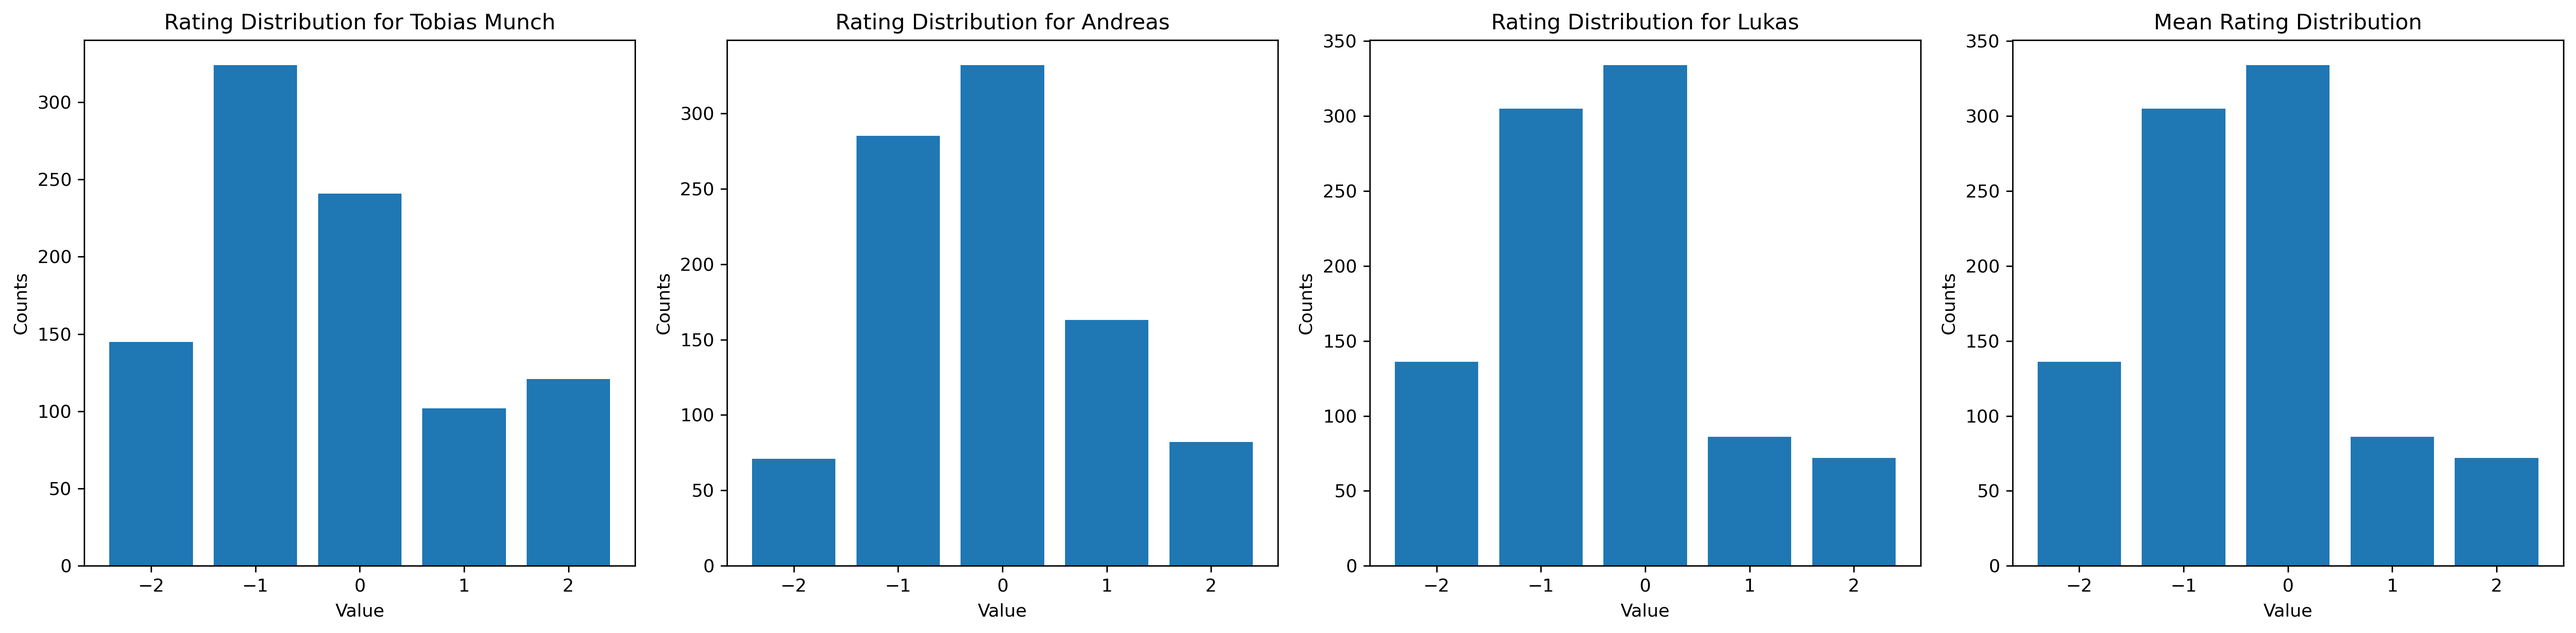
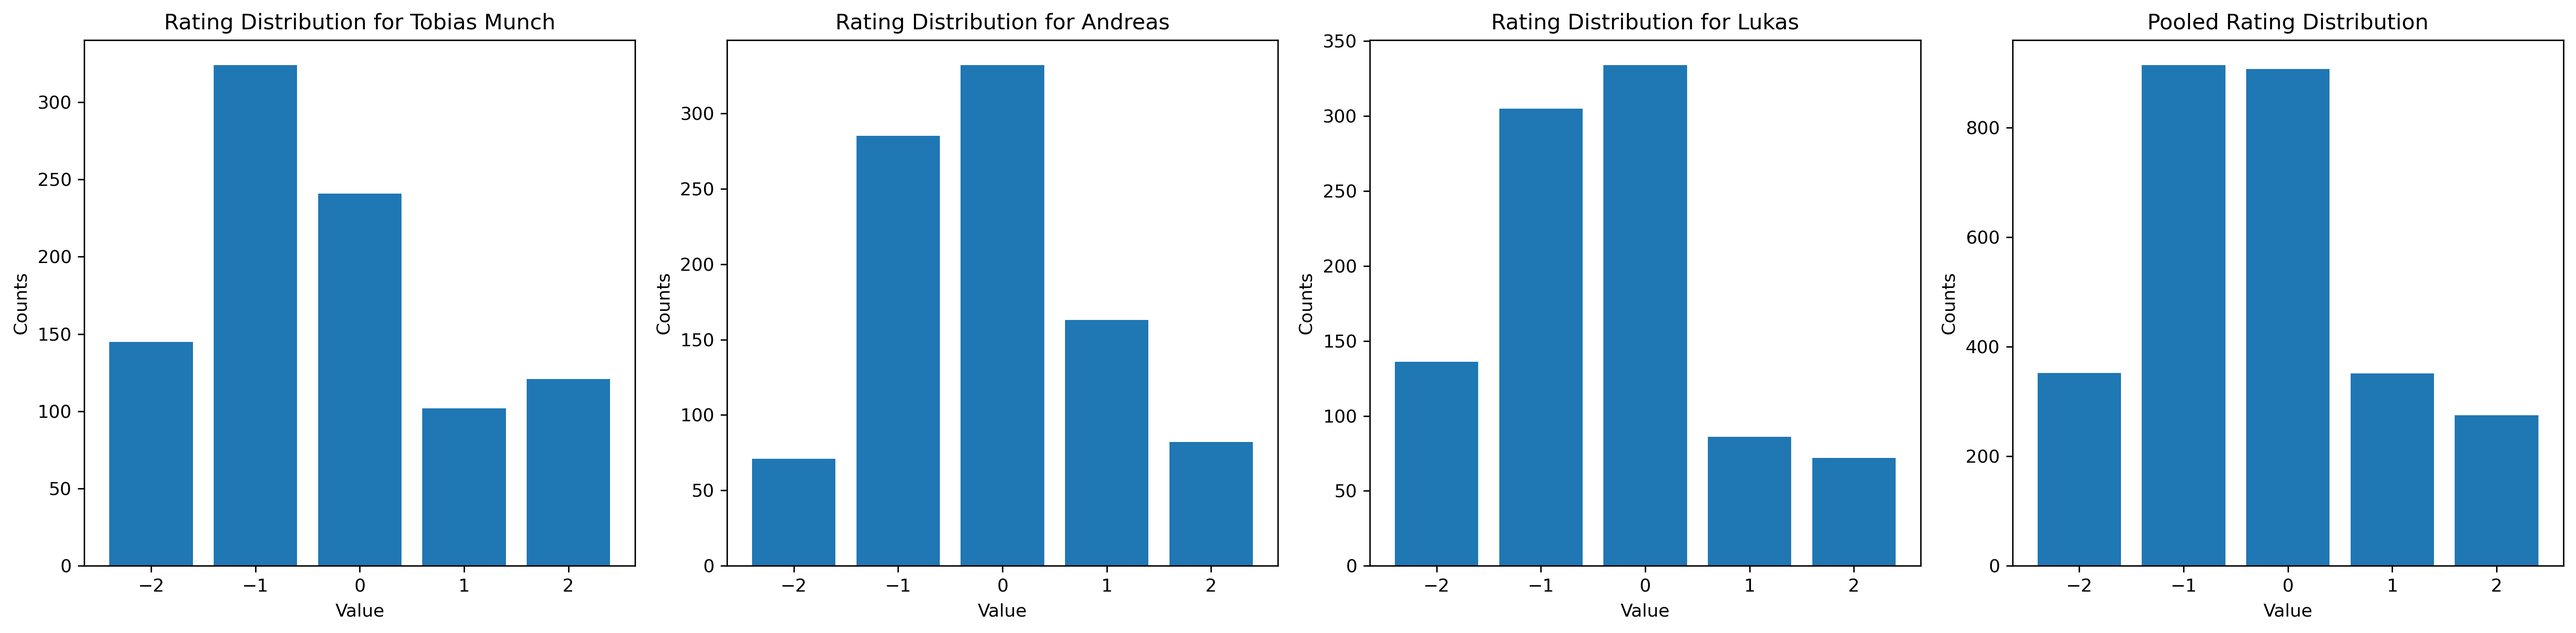
fix histogram to pool correctly

diff --git a/linear_regression.py b/linear_regression.py
@@ -4,6 +4,7 @@ np.random.seed(21)
 import sklearn.linear_model
 import sklearn.feature_selection
 import pickle as pkl
+import matplotlib.pyplot as plt
 
 # Linear Regression using forward selection
 PCs = np.load("cache/PCs.npy")
@@ -22,6 +23,17 @@ selected_features = forward_selection.fit(PCs,ratings).support_
 print('number of selected features:',sum(selected_features))
 
 model = model.fit(PCs[:, selected_features], ratings)
+
+def mask_to_idx(mask):
+    return np.where(mask)[0]
+
+plt.figure(figsize=(12, 4))
+plt.bar(mask_to_idx(selected_features), model.coef_)
+plt.xticks(mask_to_idx(selected_features))
+plt.title("Coefficients of selected features")
+plt.xlabel("Feature index")
+plt.ylabel("Coefficient")
+plt.savefig('Images/linear_regression.png',dpi=300, bbox_inches='tight')
 
 # Save selected features
 np.save("cache/selected_features.npy", selected_features)

diff --git a/hist.py b/hist.py
@@ -26,7 +26,7 @@ loc = [-2,-1,0,1,2]
 
 # Plot
 ax[-1].bar(loc,bins[0])
-ax[-1].set_title('Mean Rating Distribution')
+ax[-1].set_title('Pooled Rating Distribution')
 ax[-1].set_xlabel('Value')
 ax[-1].set_ylabel('Counts')
 plt.tight_layout()
